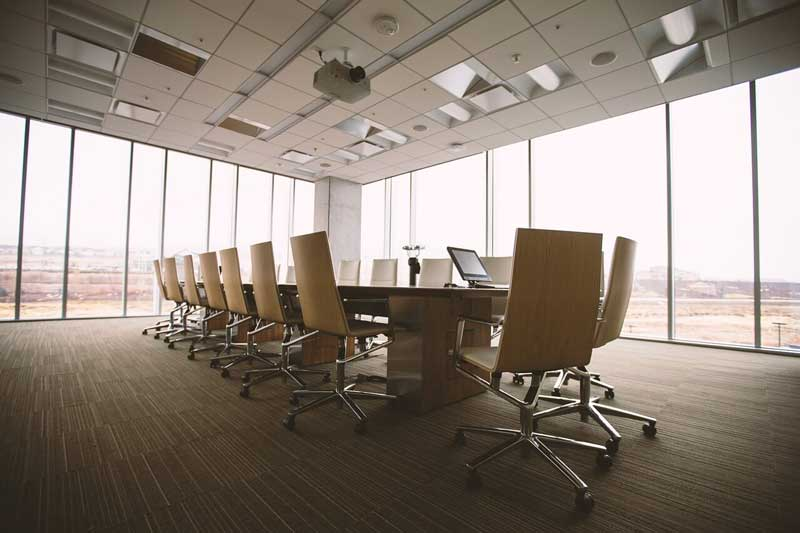
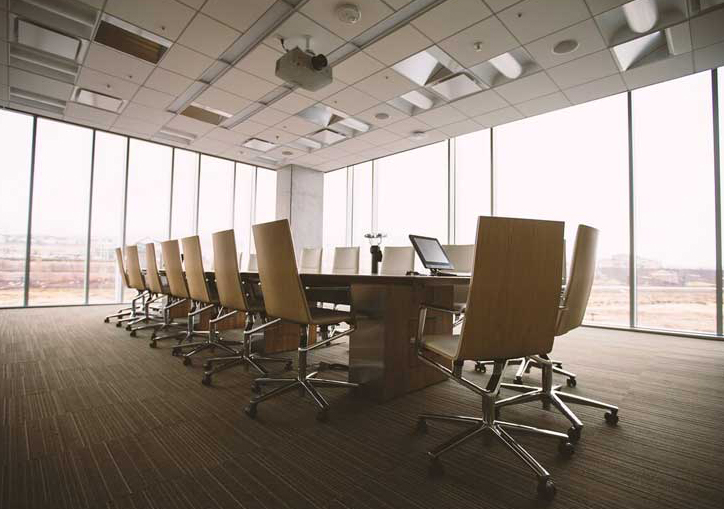
image optimalization

diff --git a/docs/css/main.css b/docs/css/main.css
@@ -1,1 +1,1 @@
-html{line-height:1.15;-ms-text-size-adjust:100%;-webkit-text-size-adjust:100%}body{margin:0}article,aside,footer,header,nav,section{display:block}sup{font-size:75%;line-height:0;position:relative;vertical-align:baseline;top:-0.5em}img{border-style:none}svg:not(:root){overflow:hidden}button,input,optgroup,select,textarea{margin:0}button,input{overflow:visible}button,select{text-transform:none}button,html [type="button"],[type="reset"],[type="submit"]{-webkit-appearance:button}[type="button"]::-moz-focus-inner,[type="reset"]::-moz-focus-inner,[type="submit"]::-moz-focus-inner,button::-moz-focus-inner{border-style:none;padding:0}[type="button"]:-moz-focusring,[type="reset"]:-moz-focusring,[type="submit"]:-moz-focusring,button:-moz-focusring{outline:1px dotted ButtonText}[type="checkbox"],[type="radio"]{box-sizing:border-box;padding:0}::-webkit-file-upload-button{-webkit-appearance:button;font:inherit}[hidden]{display:none}*{box-sizing:border-box;font-family:'Raleway',sans-serif}.container{width:100%;max-width:1700px;height:auto;margin:0 auto;display:-webkit-box;display:-webkit-flex;display:-moz-flex;display:-ms-flexbox;display:flex;-webkit-flex-wrap:wrap;-moz-flex-wrap:wrap;-ms-flex-wrap:wrap;flex-wrap:wrap;-webkit-box-pack:center;-ms-flex-pack:center;-webkit-justify-content:center;-moz-justify-content:center;justify-content:center;-webkit-box-align:center;-ms-flex-align:center;-webkit-align-items:center;-moz-align-items:center;align-items:center;font-size:2.8vw;color:#2b2120}@media(min-width:760px){.container{font-size:1.4vw}}.hidden{display:none}.menu{-webkit-box-pack:justify;-ms-flex-pack:justify;-webkit-justify-content:space-between;-moz-justify-content:space-between;justify-content:space-between;font-weight:bold;text-transform:uppercase;padding:6px 10px;position:relative}@media(min-width:760px){.menu{padding:6px 40px}}@media(min-width:1220px){.menu{-webkit-box-pack:start;-ms-flex-pack:start;-webkit-justify-content:flex-start;-moz-justify-content:flex-start;justify-content:flex-start}}.menu--fixed{position:fixed;background:#fff;z-index:1}.menu-lang{cursor:pointer}.menu-lang__item{padding:10px;font-size:12px;border:1px solid #dedede}.menu-lang__item:hover{border:1px solid #841f1f}.menu-lang__link{background-color:transparent;-webkit-text-decoration-skip:objects;text-decoration:none;color:#2b2120}.menu-lang__link:hover{color:#841f1f}.menu-sub{padding-left:0}@media(min-width:1220px){.menu-sub{display:none;position:absolute;background:#841f1f;margin:0;z-index:1;padding-left:10px;top:2.5em;left:0}}.menu-sub__item{padding:10px;list-style:none}@media(min-width:1220px){.menu-sub__item{display:inline-block;list-style:none;padding:1em}}.menu-sub__link{background-color:transparent;-webkit-text-decoration-skip:objects;text-decoration:none;color:#2b2120;color:#fff;font-weight:normal}.menu-sub__link:hover{font-weight:bold}.menu .nav{position:absolute;float:right;top:-20px;right:0;z-index:3;width:70%}@media(min-width:760px){.menu .nav{width:200px}}@media(min-width:1220px){.menu .nav{position:static;width:96%}}.menu-nav{display:none;font-size:18px;background:#841f1f;padding-left:0}@media(min-width:1220px){.menu-nav{font-size:12px;display:block;background:0;position:static}}.menu-nav .icon-cancel{font-size:20px;cursor:pointer}@media(min-width:1220px){.menu-nav .icon-cancel{display:none}}.menu-nav__item{list-style:none;padding:10px 1.6em}@media(min-width:1220px){.menu-nav__item{display:inline-block;list-style:none;position:relative}}.menu-nav__item:hover .menu-sub{display:block}.menu-nav__item--clouse{text-align:right;color:#fff}@media(min-width:1220px){.menu-nav__item--sub:hover{background:#841f1f}.menu-nav__item--sub:hover a{color:#fff}}.menu-nav__item--logo{display:none}@media(min-width:1220px){.menu-nav__item--logo{padding:0 60px;display:inline-block}}.menu-nav__item--last{padding-right:0}.menu-nav__link{background-color:transparent;-webkit-text-decoration-skip:objects;text-decoration:none;color:#2b2120;color:#fff;font-weight:normal}@media(min-width:1220px){.menu-nav__link{font-weight:bold;color:inherit}}.menu-nav__link:hover{font-weight:bolder}@media(min-width:1220px){.menu-nav__link:hover{color:#841f1f}}.menu-logo{display:block;position:absolute;top:.5em;left:35%}@media(min-width:760px){.menu-logo{left:45%}}@media(min-width:1220px){.menu-logo{display:none}}.menu-logo__img{width:120px}@media(min-width:1220px){.menu-logo__img{width:76px}}.menu-mobile{display:block;cursor:pointer;font-size:40px}.menu-mobile:hover{color:#841f1f}@media(min-width:760px){.menu-mobile{font-size:50px}}@media(min-width:1220px){.menu-mobile{display:none}}.top{position:relative}.top-slider{width:100%;height:100%}.top-img{background:url("../assets/top_background_view.jpg");width:100%;background-size:cover;background-repeat:no-repeat;background-position:center}.top-img--second{background:url("../assets/top_background_room.jpg");width:100%;background-size:cover;background-repeat:no-repeat;background-position:center}.top-price{position:absolute;background-color:#841f1f;color:#fff;width:145px;padding:5px 10px;top:30px;right:0}@media(min-width:760px){.top-price{width:200px;padding:10px 20px}}@media(min-width:950px){.top-price{width:12em;padding:.5em .9em}}.top-price:hover{background-color:#fff;color:#841f1f}.top-price__link{background-color:transparent;-webkit-text-decoration-skip:objects;text-decoration:none;color:#2b2120;color:inherit}.top-price__item{text-transform:uppercase;font-weight:800;font-size:12px}@media(min-width:760px){.top-price__item{font-size:15px}}@media(min-width:950px){.top-price__item{font-size:1em}}.top-price__item--small{font-weight:normal;font-size:8px}@media(min-width:760px){.top-price__item--small{font-size:10px}}@media(min-width:950px){.top-price__item--small{font-size:.65em}}.top-opinion{position:absolute;left:20px;bottom:50%;height:40px;width:40px;color:#fff;border:1px solid #fff;background:rgba(0,0,0,0.4);font-weight:800;text-transform:uppercase;text-align:center;line-height:1em;font-size:10px}@media(min-width:760px){.top-opinion{bottom:20px}}@media(min-width:950px){.top-opinion{left:40px;bottom:50px;height:4em;width:4em;font-size:1em}}.top-opinion__rating{line-height:1.5em}.top-opinion__desc{font-size:8px;font-weight:600}@media(min-width:950px){.top-opinion__desc{font-size:.8em}}.top-motto{width:100%;text-align:center;color:#fff;padding:18em 0 2em;text-shadow:#2b2120 2px 2px 5px}.top-motto__main{text-transform:uppercase;font-size:2.6em;font-weight:200;letter-spacing:5px;line-height:20px}@media(min-width:760px){.top-motto__main{font-size:3.5em}}.top-motto__opinion{font-style:italic;font-size:1.4em}.section-header{text-transform:uppercase;font-weight:200;color:#2b2120;font-size:2.7em;-webkit-box-flex:0;-webkit-flex:0 1 100%;-moz-box-flex:0;-moz-flex:0 1 100%;-ms-flex:0 1 100%;flex:0 1 100%;margin-bottom:0;letter-spacing:8px}.section-header--center{text-align:center}.section-desc{-webkit-box-flex:0;-webkit-flex:0 1 100%;-moz-box-flex:0;-moz-flex:0 1 100%;-ms-flex:0 1 100%;flex:0 1 100%;color:#888;font-size:.65em}.section-desc--big{font-size:.9em;text-align:center}.slider{margin:0 auto;-webkit-box-flex:0;-webkit-flex:0 1 100%;-moz-box-flex:0;-moz-flex:0 1 100%;-ms-flex:0 1 100%;flex:0 1 100%;display:-webkit-box;display:-webkit-flex;display:-moz-flex;display:-ms-flexbox;display:flex;-webkit-flex-wrap:wrap;-moz-flex-wrap:wrap;-ms-flex-wrap:wrap;flex-wrap:wrap;-webkit-box-align:center;-ms-flex-align:center;-webkit-align-items:center;-moz-align-items:center;align-items:center;-webkit-box-pack:center;-ms-flex-pack:center;-webkit-justify-content:center;-moz-justify-content:center;justify-content:center;margin-bottom:2em}.slider__arrow{cursor:pointer;color:#888;font-size:4em;font-weight:200}.slider__arrow:hover{color:#841f1f}.slider__wrapper{width:65%;height:20em;text-align:center}@media(min-width:760px){.slider__wrapper{width:84%}}.slider__list{margin:0 auto;padding:0}.slider__item{display:inline-block;list-style:none;padding:5px}.slider__item--hidden{display:none}.slider__link{background-color:transparent;-webkit-text-decoration-skip:objects;text-decoration:none;color:#2b2120}.slider__link:hover{color:#841f1f}.slider__container{position:relative;height:17em;width:17em}.slider__container:hover span{display:block}.slider__img{width:100%}.slider__button{position:absolute;top:40%;left:30%;padding:15px 20px;color:#fff;border:1px solid #fff;display:none;font-size:.9em;font-weight:bold}.slider__button:hover{background:#841f1f;border-color:#841f1f}.slider__title{text-transform:uppercase;font-size:1em}.section{background:rgba(26,20,20,0.6);padding:1em 2em 4em;margin:2em;text-align:center}@media(min-width:950px){.section{width:27em;margin:3em 20em 3em 9em;text-align:left}}.section-header--light{color:#fff}.section--light{background:#fff;margin:0;padding:4em}.section-desc{margin-bottom:50px;font-size:15px}@media(min-width:1220px){.section-desc{font-size:.7em}}.section-desc-container{line-height:1.5em}@media(min-width:950px){.section-desc-container{width:20em}}.section-desc--light{color:#fff}.section-rooms{background:url("../assets/background_rooms.jpg");width:100%;background-size:cover;background-repeat:no-repeat;background-attachment:fixed;background-position:center}.section-button{background-color:transparent;-webkit-text-decoration-skip:objects;text-decoration:none;color:#2b2120;color:#fff;text-transform:uppercase;border:1px solid #fff;padding:12px 20px;font-weight:800;font-size:.7rem;letter-spacing:1px}.section-button:hover{background:#fff;color:#2b2120}.section-button--light{background:#841f1f}.section-button--light:hover{border-color:#841f1f}.section-location{background:url("../assets/background_balkon.jpg");width:100%;background-size:cover;background-repeat:no-repeat;background-attachment:fixed;background-position:center}.section-family{background:url("../assets/background_family.jpg");width:100%;background-size:cover;background-repeat:no-repeat;background-position:center}.section-slider{width:100%;height:100%;position:relative;margin:40px 20px 0}@media(min-width:760px){.section-slider{width:50em}}@media(min-width:950px){.section-slider{width:27em;margin:4em 0}}.section-slider__img{width:100%;display:none}.section-slider__img--fade{display:block;width:100%;-webkit-animation:fade 5s infinite ease-in-out;-moz-animation:fade 5s infinite ease-in-out;-o-animation:fade 5s infinite ease-in-out;animation:fade 5s infinite ease-in-out}.section-slider__img--pause{display:block;width:100%}.section-slider__ctrl{position:absolute;left:5%;bottom:5%}.section-slider__controlls{border:1px solid #d8d8d8;padding:4px 2px;margin:3px;display:inline-block;cursor:pointer;font-size:22px;color:#d8d8d8;text-shadow:#2b2120 2px 2px 5px}.section-slider__controlls:hover{color:#841f1f;background:#fff}@-webkit-keyframes fade{0%{opacity:1}50%{opacity:0}100%{opacity:1}}@-moz-keyframes fade{0%{opacity:1}50%{opacity:0}100%{opacity:1}}@-ms-keyframes fade{0%{opacity:1}50%{opacity:0}100%{opacity:1}}@-o-keyframes fade{0%{opacity:1}50%{opacity:0}100%{opacity:1}}@keyframes fade{0%{opacity:1}50%{opacity:0}100%{opacity:1}}.map{-webkit-box-flex:0;-webkit-flex:0 1 100%;-moz-box-flex:0;-moz-flex:0 1 100%;-ms-flex:0 1 100%;flex:0 1 100%;height:200px;height:30em}@media(min-width:950px){.map{-webkit-box-flex:0;-webkit-flex:0 1 50%;-moz-box-flex:0;-moz-flex:0 1 50%;-ms-flex:0 1 50%;flex:0 1 50%}}.contact{-webkit-box-flex:0;-webkit-flex:0 1 100%;-moz-box-flex:0;-moz-flex:0 1 100%;-ms-flex:0 1 100%;flex:0 1 100%;color:#fff;letter-spacing:1px;line-height:1.5em;font-weight:200}@media(min-width:760px){.contact{height:40em}}@media(min-width:950px){.contact{height:30em;-webkit-box-flex:0;-webkit-flex:0 1 50%;-moz-box-flex:0;-moz-flex:0 1 50%;-ms-flex:0 1 50%;flex:0 1 50%}}.contact-adress{height:50%;background:url("../assets/background-reception.jpg");width:100%;background-size:cover;background-repeat:no-repeat;background-position:center;line-height:23px;padding-bottom:2em}@media(min-width:950px){.contact-adress{flex:0 1 50%}}.contact-adress__adress{padding:3em;width:100%;text-align:center;font-size:16px}@media(min-width:760px){.contact-adress__adress{width:50%;float:left;text-align:left}}@media(min-width:950px){.contact-adress__adress{font-size:.9em}}@media(min-width:1220px){.contact-adress__adress{width:40%}}.contact-adress__container{width:100%}@media(min-width:760px){.contact-adress__container{width:50%;float:left}}@media(min-width:1220px){.contact-adress__container{width:60%}}.contact-adress__reception{border:1px solid #fff;font-size:18px;margin:2em;line-height:23px;padding:2em 1em;text-align:center}@media(min-width:760px){.contact-adress__reception{margin:2.5em 2em 0 0;font-size:16px}}@media(min-width:950px){.contact-adress__reception{font-size:1em;padding:3em 2em}}.contact-adress__reception-title{letter-spacing:6px;font-size:1.25em}.contact-promotion{text-align:center;height:50%;padding-top:2em;font-size:12px;letter-spacing:0;background:#1a1414}@media(min-width:1220px){.contact-promotion{font-size:.65em}}.contact-promotion__header{text-transform:uppercase;font-weight:200;font-size:1.8em;letter-spacing:5px}.contact-promotion__form-imput{padding:1em;border:0;font-size:1em}.contact-promotion__form-button{color:#fff;background:#841f1f;font-size:1em;padding:1em 2em;font-weight:bold;border:0}.checkbox{position:relative;max-width:220px;margin:10px auto;padding-bottom:10px}.checkbox input{display:block;opacity:0;height:20px;position:absolute;width:20px;cursor:pointer}.checkbox label{display:block;padding-left:40px;position:relative;cursor:pointer}.checkbox label::after,.checkbox label::before{border:2px solid #888;content:"";display:block;left:0;height:15px;position:absolute;width:15px;top:0}.checkbox label::after{height:20px;width:20px;background:url("../assets/checked.png");background-size:contain;background-repeat:no-repeat;border:0;display:none}.checkbox input:checked+label::after{display:block}.footer{color:#888;font-weight:200}.footer-left{float:left;width:100%}@media(min-width:950px){.footer-left{width:28%}}@media(min-width:1220px){.footer-left{width:50%}}.footer-left__item{text-align:center;display:block;padding:10px;font-size:14px}@media(min-width:950px){.footer-left__item{font-size:16px}}@media(min-width:1220px){.footer-left__item{padding:1em;display:inline-block}}.footer-left__item--copy{font-size:.8rem}.footer-left__link{background-color:transparent;-webkit-text-decoration-skip:objects;text-decoration:none;color:#2b2120;color:inherit}.footer-right{display:-webkit-box;display:-webkit-flex;display:-moz-flex;display:-ms-flexbox;display:flex;-webkit-box-pack:center;-ms-flex-pack:center;-webkit-justify-content:center;-moz-justify-content:center;justify-content:center;-webkit-flex-wrap:wrap;-moz-flex-wrap:wrap;-ms-flex-wrap:wrap;flex-wrap:wrap;float:left;width:100%;padding-right:60px}@media(min-width:950px){.footer-right{width:72%;-webkit-box-pack:end;-ms-flex-pack:end;-webkit-justify-content:flex-end;-moz-justify-content:flex-end;justify-content:flex-end}}@media(min-width:1220px){.footer-right{width:50%}}.go-top{font-weight:bold;color:#1a1414;cursor:pointer;margin:1em 0 1em 5em;font-size:11px}.go-top__desc{padding-right:20px}.go-top__img{padding:3px 0;font-size:29px;background:#1a1414;display:inline-block;color:#fff}.go-top__img:hover{background:#841f1f}.social__item{display:inline-block;list-style:none;padding:5px 3px;border:1px solid #d8d8d8;margin-right:10px;font-size:24px}.social__item:hover{background:#841f1f}.social__link{background-color:transparent;-webkit-text-decoration-skip:objects;text-decoration:none;color:#2b2120;color:#888}.social__link:hover{color:#fff}
+html{line-height:1.15;-ms-text-size-adjust:100%;-webkit-text-size-adjust:100%}body{margin:0}article,aside,footer,header,nav,section{display:block}sup{font-size:75%;line-height:0;position:relative;vertical-align:baseline;top:-0.5em}img{border-style:none}svg:not(:root){overflow:hidden}button,input,optgroup,select,textarea{margin:0}button,input{overflow:visible}button,select{text-transform:none}button,html [type="button"],[type="reset"],[type="submit"]{-webkit-appearance:button}[type="button"]::-moz-focus-inner,[type="reset"]::-moz-focus-inner,[type="submit"]::-moz-focus-inner,button::-moz-focus-inner{border-style:none;padding:0}[type="button"]:-moz-focusring,[type="reset"]:-moz-focusring,[type="submit"]:-moz-focusring,button:-moz-focusring{outline:1px dotted ButtonText}[type="checkbox"],[type="radio"]{box-sizing:border-box;padding:0}::-webkit-file-upload-button{-webkit-appearance:button;font:inherit}[hidden]{display:none}*{box-sizing:border-box;font-family:'Raleway',sans-serif}.container{width:100%;max-width:1700px;height:auto;margin:0 auto;display:-webkit-box;display:-webkit-flex;display:-moz-flex;display:-ms-flexbox;display:flex;-webkit-flex-wrap:wrap;-moz-flex-wrap:wrap;-ms-flex-wrap:wrap;flex-wrap:wrap;-webkit-box-pack:center;-ms-flex-pack:center;-webkit-justify-content:center;-moz-justify-content:center;justify-content:center;-webkit-box-align:center;-ms-flex-align:center;-webkit-align-items:center;-moz-align-items:center;align-items:center;font-size:2.8vw;color:#2b2120}@media(min-width:760px){.container{font-size:1.4vw}}.hidden{display:none}.menu{-webkit-box-pack:justify;-ms-flex-pack:justify;-webkit-justify-content:space-between;-moz-justify-content:space-between;justify-content:space-between;font-weight:bold;text-transform:uppercase;padding:6px 10px;position:relative}@media(min-width:760px){.menu{padding:6px 40px}}@media(min-width:1220px){.menu{-webkit-box-pack:start;-ms-flex-pack:start;-webkit-justify-content:flex-start;-moz-justify-content:flex-start;justify-content:flex-start}}.menu--fixed{position:fixed;background:#fff;z-index:1}.menu-lang{cursor:pointer}.menu-lang__item{padding:10px;font-size:12px;border:1px solid #dedede}.menu-lang__item:hover{border:1px solid #841f1f}.menu-lang__link{background-color:transparent;-webkit-text-decoration-skip:objects;text-decoration:none;color:#2b2120}.menu-lang__link:hover{color:#841f1f}.menu-sub{padding-left:0}@media(min-width:1220px){.menu-sub{display:none;position:absolute;background:#841f1f;margin:0;z-index:1;padding-left:10px;top:2.5em;left:0}}.menu-sub__item{padding:10px;list-style:none}@media(min-width:1220px){.menu-sub__item{display:inline-block;list-style:none;padding:1em}}.menu-sub__link{background-color:transparent;-webkit-text-decoration-skip:objects;text-decoration:none;color:#2b2120;color:#fff;font-weight:normal}.menu-sub__link:hover{font-weight:bold}.menu .nav{position:absolute;float:right;top:-20px;right:0;z-index:3;width:70%}@media(min-width:760px){.menu .nav{width:200px}}@media(min-width:1220px){.menu .nav{position:static;width:96%}}.menu-nav{display:none;font-size:18px;background:#841f1f;padding-left:0}@media(min-width:1220px){.menu-nav{font-size:12px;display:block;background:0;position:static}}.menu-nav .icon-cancel{font-size:20px;cursor:pointer}@media(min-width:1220px){.menu-nav .icon-cancel{display:none}}.menu-nav__item{list-style:none;padding:10px 1.6em}@media(min-width:1220px){.menu-nav__item{display:inline-block;list-style:none;position:relative}}.menu-nav__item:hover .menu-sub{display:block}.menu-nav__item--clouse{text-align:right;color:#fff}@media(min-width:1220px){.menu-nav__item--sub:hover{background:#841f1f}.menu-nav__item--sub:hover a{color:#fff}}.menu-nav__item--logo{display:none}@media(min-width:1220px){.menu-nav__item--logo{padding:0 60px;display:inline-block}}.menu-nav__item--last{padding-right:0}.menu-nav__link{background-color:transparent;-webkit-text-decoration-skip:objects;text-decoration:none;color:#2b2120;color:#fff;font-weight:normal}@media(min-width:1220px){.menu-nav__link{font-weight:bold;color:inherit}}.menu-nav__link:hover{font-weight:bolder}@media(min-width:1220px){.menu-nav__link:hover{color:#841f1f}}.menu-logo{display:block;position:absolute;top:.5em;left:35%}@media(min-width:760px){.menu-logo{left:45%}}@media(min-width:1220px){.menu-logo{display:none}}.menu-logo__img{width:120px}@media(min-width:1220px){.menu-logo__img{width:76px}}.menu-mobile{display:block;cursor:pointer;font-size:40px}.menu-mobile:hover{color:#841f1f}@media(min-width:760px){.menu-mobile{font-size:50px}}@media(min-width:1220px){.menu-mobile{display:none}}.top{position:relative}.top-slider{width:100%;height:100%}.top-img{background:url("../assets/top_background_view.jpg");width:100%;background-size:cover;background-repeat:no-repeat;background-position:center}.top-img--second{background:url("../assets/top_background_room.jpg");width:100%;background-size:cover;background-repeat:no-repeat;background-position:center}.top-price{position:absolute;background-color:#841f1f;color:#fff;width:145px;padding:5px 10px;top:30px;right:0}@media(min-width:760px){.top-price{width:200px;padding:10px 20px}}@media(min-width:950px){.top-price{width:12em;padding:.5em .9em}}.top-price:hover{background-color:#fff;color:#841f1f}.top-price__link{background-color:transparent;-webkit-text-decoration-skip:objects;text-decoration:none;color:#2b2120;color:inherit}.top-price__item{text-transform:uppercase;font-weight:800;font-size:12px}@media(min-width:760px){.top-price__item{font-size:15px}}@media(min-width:950px){.top-price__item{font-size:1em}}.top-price__item--small{font-weight:normal;font-size:8px}@media(min-width:760px){.top-price__item--small{font-size:10px}}@media(min-width:950px){.top-price__item--small{font-size:.65em}}.top-opinion{position:absolute;left:20px;bottom:50%;height:40px;width:40px;color:#fff;border:1px solid #fff;background:rgba(0,0,0,0.4);font-weight:800;text-transform:uppercase;text-align:center;line-height:1em;font-size:10px}@media(min-width:760px){.top-opinion{bottom:20px}}@media(min-width:950px){.top-opinion{left:40px;bottom:50px;height:4em;width:4em;font-size:1em}}.top-opinion__rating{line-height:1.5em}.top-opinion__desc{font-size:8px;font-weight:600}@media(min-width:950px){.top-opinion__desc{font-size:.8em}}.top-motto{width:100%;text-align:center;color:#fff;padding:18em 0 2em;text-shadow:#2b2120 2px 2px 5px}.top-motto__main{text-transform:uppercase;font-size:2.6em;font-weight:200;letter-spacing:5px;line-height:20px}@media(min-width:760px){.top-motto__main{font-size:3.5em}}.top-motto__opinion{font-style:italic;font-size:1.4em}.section-header{text-transform:uppercase;font-weight:200;color:#2b2120;font-size:2.7em;-webkit-box-flex:0;-webkit-flex:0 1 100%;-moz-box-flex:0;-moz-flex:0 1 100%;-ms-flex:0 1 100%;flex:0 1 100%;margin-bottom:0;letter-spacing:8px}.section-header--center{text-align:center}.section-desc{-webkit-box-flex:0;-webkit-flex:0 1 100%;-moz-box-flex:0;-moz-flex:0 1 100%;-ms-flex:0 1 100%;flex:0 1 100%;color:#888;font-size:.65em}.section-desc--big{font-size:.9em;text-align:center}.slider{margin:0 auto;-webkit-box-flex:0;-webkit-flex:0 1 100%;-moz-box-flex:0;-moz-flex:0 1 100%;-ms-flex:0 1 100%;flex:0 1 100%;display:-webkit-box;display:-webkit-flex;display:-moz-flex;display:-ms-flexbox;display:flex;-webkit-flex-wrap:wrap;-moz-flex-wrap:wrap;-ms-flex-wrap:wrap;flex-wrap:wrap;-webkit-box-align:center;-ms-flex-align:center;-webkit-align-items:center;-moz-align-items:center;align-items:center;-webkit-box-pack:center;-ms-flex-pack:center;-webkit-justify-content:center;-moz-justify-content:center;justify-content:center;margin-bottom:2em}.slider__arrow{cursor:pointer;color:#888;font-size:4em;font-weight:200}.slider__arrow:hover{color:#841f1f}.slider__wrapper{width:65%;height:20em;text-align:center}@media(min-width:760px){.slider__wrapper{width:84%}}.slider__list{margin:0 auto;padding:0}.slider__item{display:inline-block;list-style:none;padding:5px}.slider__item--hidden{display:none}.slider__link{background-color:transparent;-webkit-text-decoration-skip:objects;text-decoration:none;color:#2b2120}.slider__link:hover{color:#841f1f}.slider__container{position:relative;height:17em;width:17em}.slider__container:hover span{display:block}.slider__img{width:100%}.slider__button{position:absolute;top:40%;left:30%;padding:15px 20px;color:#fff;border:1px solid #fff;display:none;font-size:.9em;font-weight:bold}.slider__button:hover{background:#841f1f;border-color:#841f1f}.slider__title{text-transform:uppercase;font-size:1em}.section{background:rgba(26,20,20,0.6);padding:1em 2em 4em;margin:2em;text-align:center}@media(min-width:950px){.section{width:27em;margin:3em 20em 3em 9em;text-align:left}}.section-header--light{color:#fff}.section--light{background:#fff;margin:0;padding:4em}.section-desc{margin-bottom:50px;font-size:15px}@media(min-width:1220px){.section-desc{font-size:.7em}}.section-desc-container{line-height:1.5em}@media(min-width:950px){.section-desc-container{width:20em}}.section-desc--light{color:#fff}.section-rooms{background:url("../assets/background_rooms.jpg");width:100%;background-size:cover;background-repeat:no-repeat;background-attachment:fixed;background-position:center}.section-button{background-color:transparent;-webkit-text-decoration-skip:objects;text-decoration:none;color:#2b2120;color:#fff;text-transform:uppercase;border:1px solid #fff;padding:12px 20px;font-weight:800;font-size:.7rem;letter-spacing:1px}.section-button:hover{background:#fff;color:#2b2120}.section-button--light{background:#841f1f}.section-button--light:hover{border-color:#841f1f}.section-location{background:url("../assets/background_balkon.jpg");width:100%;background-size:cover;background-repeat:no-repeat;background-attachment:fixed;background-position:center}.section-family{background:url("../assets/background_family.jpg");width:100%;background-size:cover;background-repeat:no-repeat;background-position:center}.section-slider{width:100%;height:100%;position:relative;margin:40px 20px 0}@media(min-width:760px){.section-slider{width:50em}}@media(min-width:950px){.section-slider{width:27em;margin:4em 0}}.section-slider__img{width:100%;display:none}.section-slider__img--fade{display:block;width:100%;-webkit-animation:fade 5s infinite ease-in-out;-moz-animation:fade 5s infinite ease-in-out;-o-animation:fade 5s infinite ease-in-out;animation:fade 5s infinite ease-in-out}.section-slider__img--pause{display:block;width:100%}.section-slider__ctrl{position:absolute;left:5%;bottom:5%}.section-slider__controlls{border:1px solid #d8d8d8;padding:4px 2px;margin:3px;display:inline-block;cursor:pointer;font-size:22px;color:#d8d8d8;text-shadow:#2b2120 2px 2px 5px}.section-slider__controlls:hover{color:#841f1f;background:#fff}@-webkit-keyframes fade{0%{opacity:1}50%{opacity:0}100%{opacity:1}}@-moz-keyframes fade{0%{opacity:1}50%{opacity:0}100%{opacity:1}}@-ms-keyframes fade{0%{opacity:1}50%{opacity:0}100%{opacity:1}}@-o-keyframes fade{0%{opacity:1}50%{opacity:0}100%{opacity:1}}@keyframes fade{0%{opacity:1}50%{opacity:0}100%{opacity:1}}.map{-webkit-box-flex:0;-webkit-flex:0 1 100%;-moz-box-flex:0;-moz-flex:0 1 100%;-ms-flex:0 1 100%;flex:0 1 100%;height:200px;height:30em}@media(min-width:950px){.map{-webkit-box-flex:0;-webkit-flex:0 1 50%;-moz-box-flex:0;-moz-flex:0 1 50%;-ms-flex:0 1 50%;flex:0 1 50%}}.contact{-webkit-box-flex:0;-webkit-flex:0 1 100%;-moz-box-flex:0;-moz-flex:0 1 100%;-ms-flex:0 1 100%;flex:0 1 100%;color:#fff;letter-spacing:1px;line-height:1.5em;font-weight:200}@media(min-width:760px){.contact{height:40em}}@media(min-width:950px){.contact{height:30em;-webkit-box-flex:0;-webkit-flex:0 1 50%;-moz-box-flex:0;-moz-flex:0 1 50%;-ms-flex:0 1 50%;flex:0 1 50%}}.contact-adress{height:50%;background:url("../assets/background-reception.jpg");width:100%;background-size:cover;background-repeat:no-repeat;background-position:center;line-height:23px;padding-bottom:2em}@media(min-width:950px){.contact-adress{flex:0 1 50%}}.contact-adress__adress{padding:3em;width:100%;text-align:center;font-size:16px}@media(min-width:760px){.contact-adress__adress{width:50%;float:left;text-align:left}}@media(min-width:950px){.contact-adress__adress{font-size:.9em}}@media(min-width:1220px){.contact-adress__adress{width:40%}}.contact-adress__container{width:100%}@media(min-width:760px){.contact-adress__container{width:50%;float:left}}@media(min-width:1220px){.contact-adress__container{width:60%}}.contact-adress__reception{border:1px solid #fff;font-size:18px;margin:2em;line-height:23px;padding:2em 1em;text-align:center}@media(min-width:760px){.contact-adress__reception{margin:2.5em 2em 0 0;font-size:16px}}@media(min-width:950px){.contact-adress__reception{font-size:1em;padding:3em 2em}}.contact-adress__reception-title{letter-spacing:6px;font-size:1.25em}.contact-promotion{text-align:center;height:50%;padding-top:2em;font-size:12px;letter-spacing:0;background:#1a1414}@media(min-width:1220px){.contact-promotion{font-size:.65em}}.contact-promotion__header{text-transform:uppercase;font-weight:200;font-size:1.8em;letter-spacing:5px}.contact-promotion__form-imput{padding:1em;border:0;font-size:1em}.contact-promotion__form-button{color:#fff;background:#841f1f;font-size:1em;padding:1em 2em;font-weight:bold;border:0}.checkbox{position:relative;max-width:220px;margin:10px auto;padding-bottom:10px}.checkbox input{display:block;opacity:0;height:20px;position:absolute;width:20px;cursor:pointer}.checkbox label{display:block;padding-left:40px;position:relative;cursor:pointer}.checkbox label::after,.checkbox label::before{border:2px solid #888;content:"";display:block;left:0;height:15px;position:absolute;width:15px;top:0}.checkbox label::after{height:20px;width:20px;background:url("../assets/checked.png");background-size:contain;background-repeat:no-repeat;border:0;display:none}.checkbox input:checked+label::after{display:block}.footer{color:#888;font-weight:200}.footer-left{float:left;width:100%}@media(min-width:950px){.footer-left{width:28%}}@media(min-width:1220px){.footer-left{width:50%}}.footer-left__item{text-align:center;display:block;padding:10px;font-size:14px;background-color:transparent;-webkit-text-decoration-skip:objects;text-decoration:none;color:#2b2120}@media(min-width:950px){.footer-left__item{font-size:16px}}@media(min-width:1220px){.footer-left__item{padding:1em;display:inline-block}}.footer-left__item--copy{font-size:.8rem}.footer-left__link{background-color:transparent;-webkit-text-decoration-skip:objects;text-decoration:none;color:#2b2120;color:inherit}.footer-right{display:-webkit-box;display:-webkit-flex;display:-moz-flex;display:-ms-flexbox;display:flex;-webkit-box-pack:center;-ms-flex-pack:center;-webkit-justify-content:center;-moz-justify-content:center;justify-content:center;-webkit-flex-wrap:wrap;-moz-flex-wrap:wrap;-ms-flex-wrap:wrap;flex-wrap:wrap;float:left;width:100%;padding-right:60px}@media(min-width:950px){.footer-right{width:72%;-webkit-box-pack:end;-ms-flex-pack:end;-webkit-justify-content:flex-end;-moz-justify-content:flex-end;justify-content:flex-end}}@media(min-width:1220px){.footer-right{width:50%}}.go-top{font-weight:bold;color:#1a1414;cursor:pointer;margin:1em 0 1em 5em;font-size:11px}.go-top__desc{padding-right:20px}.go-top__img{padding:3px 0;font-size:29px;background:#1a1414;display:inline-block;color:#fff}.go-top__img:hover{background:#841f1f}.social__item{display:inline-block;list-style:none;padding:5px 3px;border:1px solid #d8d8d8;margin-right:10px;font-size:24px}.social__item:hover{background:#841f1f}.social__link{background-color:transparent;-webkit-text-decoration-skip:objects;text-decoration:none;color:#2b2120;color:#888}.social__link:hover{color:#fff}

diff --git a/docs/index.html b/docs/index.html
@@ -291,8 +291,8 @@
         Copyright &copy; 2016 Hotel.pl<br />
         Realizacja: <a href="https://www.intellect.pl/" class="footer-left__link">intellect.pl</a>
       </div>
-      <div class="footer-left__item">Tel: +48 33 888 77 66</div>
-      <div class="footer-left__item">recepcja@hotel.pl</div>
+      <div class="footer-left__item"><a href="tel:+48338887766" class="footer-left__item">Tel: +48 33 888 77 66</a></div>
+      <div class="footer-left__item"><a href="mailto:recepcja@hotel.pl" class="footer-left__item">recepcja@hotel.pl</a></div>
     </div>
     <div class="footer-right">
       <ul class="social__list">

diff --git a/docs/scss/partials/_footer.scss b/docs/scss/partials/_footer.scss
@@ -17,6 +17,7 @@
       display: block;
       padding: 10px;
       font-size: 14px;
+      @include reset-link;
       @include for-size(tablet-portrait-up) {
         font-size: 16px;
       }
